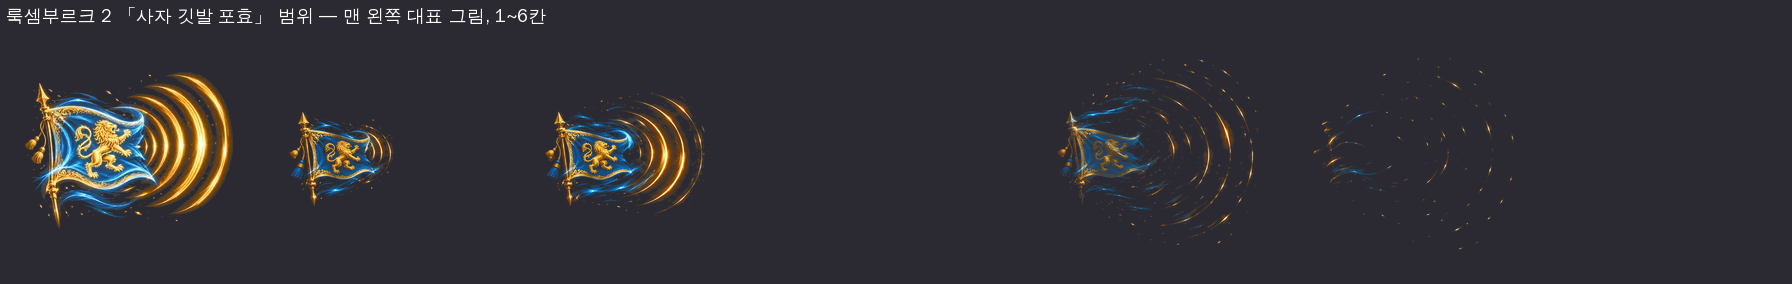
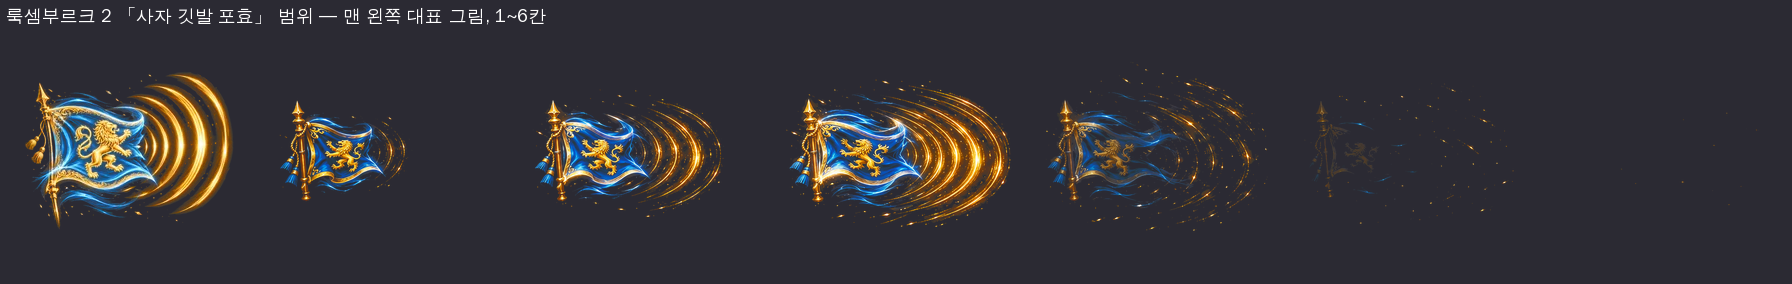
[디자인팀] 21차 연속 그림 60개 점검 미리보기
Claude-Session: https://claude.ai/code/session_013M9CK1DXpnv28ZtJdsmhuH

diff --git a/teams/2-디자인/preview/r21-check.html b/teams/2-디자인/preview/r21-check.html
@@ -7,7 +7,7 @@ h2{font-size:15px;margin:18px 0 6px}</style></head><body>
 <h2>천자총통 발사 (화포 자리, 0.05초/칸)</h2><div class="g" id="fire"></div>
 <div id="all"></div>
 <script>
-const D=[{"k": "switzerland-1", "t": "스위스 1 · 알프스 미늘창 덫", "ty": "설치", "n": ""}, {"k": "usa-2", "t": "미국 2 · 자유의 종 파동", "ty": "설치", "n": ""}, {"k": "australia-2", "t": "호주 2 · 부메랑 회오리", "ty": "설치", "n": ""}, {"k": "sweden-2", "t": "스웨덴 2 · 룬스톤 원진", "ty": "설치", "n": ""}, {"k": "canada-2", "t": "캐나다 2 · 단풍 소용돌이", "ty": "설치", "n": ""}, {"k": "finland-2", "t": "핀란드 2 · 칸텔레 노래 함정", "ty": "설치", "n": ""}, {"k": "italy-1", "t": "이탈리아 1 · 군단 진영", "ty": "설치", "n": ""}, {"k": "czechia-1", "t": "체코 1 · 전차 요새", "ty": "설치", "n": ""}, {"k": "newzealand-1", "t": "뉴질랜드 1 · 은빛 고사리 결계", "ty": "설치", "n": ""}, {"k": "chile-2", "t": "칠레 2 · 산바람 소용돌이", "ty": "설치", "n": "검은 바람이라 가산 합성에선 은빛만 보여요(보통 합성으로 바꾸면 검정이 살아남지만 지금 그림은 밝기 알파라 은빛 바람으로 씀)"}, {"k": "luxembourg-2", "t": "룩셈부르크 2 · 사자 깃발 포효", "ty": "범위", "n": "⚠ 3칸이 비고 4~6칸이 흩어져 다시 그리는 중"}, {"k": "ireland-1", "t": "아일랜드 1 · 광전사 회오리", "ty": "범위", "n": ""}, {"k": "denmark-2", "t": "덴마크 2 · 크론보르 수호 회전", "ty": "범위", "n": ""}, {"k": "austria-2", "t": "오스트리아 2 · 빈 성벽 이중 베기", "ty": "범위", "n": ""}, {"k": "germany-1", "t": "독일 1 · 강철 손 회전베기", "ty": "범위", "n": ""}, {"k": "france-1", "t": "프랑스 1 · 백합 깃발 휩쓸기", "ty": "범위", "n": ""}, {"k": "korea-2", "t": "한국 2 · 천자총통 포격", "ty": "범위", "n": ""}, {"k": "spain-2", "t": "스페인 2 · 콜라다 회전베기", "ty": "범위", "n": ""}, {"k": "czechia-2", "t": "체코 2 · 후스 도리깨", "ty": "범위", "n": ""}, {"k": "japan-2", "t": "일본 2 · 이도류 삼연 베기", "ty": "범위", "n": ""}, {"k": "portugal-1", "t": "포르투갈 1 · 항해의 바람", "ty": "범위", "n": ""}, {"k": "poland-2", "t": "폴란드 2 · 검은 기사 장창 휩쓸기", "ty": "범위", "n": ""}, {"k": "slovakia-1", "t": "슬로바키아 1 · 타트라 도끼 내려찍기", "ty": "범위", "n": ""}, {"k": "greece-1", "t": "그리스 1 · 스파르타 팔랑크스", "ty": "범위", "n": ""}, {"k": "turkiye-1", "t": "튀르키예 1 · 코푸즈 칼날 고리", "ty": "범위", "n": ""}, {"k": "chile-1", "t": "칠레 1 · 산바람", "ty": "범위", "n": ""}, {"k": "mexico-2", "t": "멕시코 2 · 마쿠아우이틀 날개 베기", "ty": "범위", "n": ""}, {"k": "colombia-1", "t": "콜롬비아 1 · 엘도라도 황금 함성", "ty": "범위", "n": ""}, {"k": "luxembourg-1", "t": "룩셈부르크 1 · 눈먼 기사왕의 돌격", "ty": "돌진", "n": ""}, {"k": "ireland-2", "t": "아일랜드 2 · 게 볼그 돌격", "ty": "돌진", "n": ""}, {"k": "netherlands-2", "t": "네덜란드 2 · 바닷바람 순간 돌파", "ty": "돌진", "n": ""}, {"k": "denmark-1", "t": "덴마크 1 · 잠든 거인의 표식 돌격", "ty": "돌진", "n": ""}, {"k": "austria-1", "t": "오스트리아 1 · 용기병 돌격", "ty": "돌진", "n": ""}, {"k": "germany-2", "t": "독일 2 · 강철 손 내려찍기", "ty": "돌진", "n": ""}, {"k": "sweden-1", "t": "스웨덴 1 · 캐롤린 돌격 대형", "ty": "돌진", "n": ""}, {"k": "finland-1", "t": "핀란드 1 · 히이시 엘크 스키 질주", "ty": "돌진", "n": ""}, {"k": "france-2", "t": "프랑스 2 · 오를레앙 돌파", "ty": "돌진", "n": ""}, {"k": "spain-1", "t": "스페인 1 · 티소나 일섬", "ty": "돌진", "n": ""}, {"k": "israel-2", "t": "이스라엘 2 · 검 돌격", "ty": "돌진", "n": ""}, {"k": "lithuania-1", "t": "리투아니아 1 · 게디미나스 기둥 창돌격", "ty": "돌진", "n": ""}, {"k": "newzealand-2", "t": "뉴질랜드 2 · 고사리 씨앗 질주", "ty": "돌진", "n": ""}, {"k": "japan-1", "t": "일본 1 · 노 목검 일격", "ty": "돌진", "n": ""}, {"k": "poland-1", "t": "폴란드 1 · 날개 기병 돌격", "ty": "돌진", "n": ""}, {"k": "hungary-2", "t": "헝가리 2 · 맷돌 장사 돌진", "ty": "돌진", "n": ""}, {"k": "greece-2", "t": "그리스 2 · 아킬레우스 창 돌격", "ty": "돌진", "n": ""}, {"k": "turkiye-2", "t": "튀르키예 2 · 서사시 영웅 돌파", "ty": "돌진", "n": ""}, {"k": "mexico-1", "t": "멕시코 1 · 독수리 전사 일격", "ty": "돌진", "n": ""}, {"k": "colombia-2", "t": "콜롬비아 2 · 황금 그림자 돌격", "ty": "돌진", "n": ""}, {"k": "switzerland-2", "t": "스위스 2 · 사과 과녁 석궁", "ty": "연사", "n": ""}, {"k": "usa-1", "t": "미국 1 · 랜턴 신호탄 튕김", "ty": "연사", "n": ""}, {"k": "netherlands-1", "t": "네덜란드 1 · 함포 일제 사격", "ty": "연사", "n": ""}, {"k": "australia-1", "t": "호주 1 · 부메랑 투척", "ty": "연사", "n": ""}, {"k": "canada-1", "t": "캐나다 1 · 도끼 던지기", "ty": "연사", "n": ""}, {"k": "italy-2", "t": "이탈리아 2 · 자마 군단 전진 찌르기", "ty": "연사", "n": ""}, {"k": "israel-1", "t": "이스라엘 1 · 투석 연사", "ty": "연사", "n": ""}, {"k": "lithuania-2", "t": "리투아니아 2 · 기마 투창 3연", "ty": "연사", "n": ""}, {"k": "portugal-2", "t": "포르투갈 2 · 루시타니아 창 찌르기", "ty": "연사", "n": ""}, {"k": "hungary-1", "t": "헝가리 1 · 후사르 사브르 연격", "ty": "연사", "n": ""}, {"k": "slovakia-2", "t": "슬로바키아 2 · 발라슈카 연속 던지기", "ty": "연사", "n": ""}];const TY={'설치':'설치(장판)','범위':'범위','돌진':'돌진','연사':'연사'};
+const D=[{"k": "switzerland-1", "t": "스위스 1 · 알프스 미늘창 덫", "ty": "설치", "n": ""}, {"k": "usa-2", "t": "미국 2 · 자유의 종 파동", "ty": "설치", "n": ""}, {"k": "australia-2", "t": "호주 2 · 부메랑 회오리", "ty": "설치", "n": ""}, {"k": "sweden-2", "t": "스웨덴 2 · 룬스톤 원진", "ty": "설치", "n": ""}, {"k": "canada-2", "t": "캐나다 2 · 단풍 소용돌이", "ty": "설치", "n": ""}, {"k": "finland-2", "t": "핀란드 2 · 칸텔레 노래 함정", "ty": "설치", "n": ""}, {"k": "italy-1", "t": "이탈리아 1 · 군단 진영", "ty": "설치", "n": ""}, {"k": "czechia-1", "t": "체코 1 · 전차 요새", "ty": "설치", "n": ""}, {"k": "newzealand-1", "t": "뉴질랜드 1 · 은빛 고사리 결계", "ty": "설치", "n": ""}, {"k": "chile-2", "t": "칠레 2 · 산바람 소용돌이", "ty": "설치", "n": "검은 바람이라 가산 합성에선 은빛만 보여요(보통 합성으로 바꾸면 검정이 살아남지만 지금 그림은 밝기 알파라 은빛 바람으로 씀)"}, {"k": "luxembourg-2", "t": "룩셈부르크 2 · 사자 깃발 포효", "ty": "범위", "n": "다시 그림 완료(3칸이 가장 큰 순간)"}, {"k": "ireland-1", "t": "아일랜드 1 · 광전사 회오리", "ty": "범위", "n": ""}, {"k": "denmark-2", "t": "덴마크 2 · 크론보르 수호 회전", "ty": "범위", "n": ""}, {"k": "austria-2", "t": "오스트리아 2 · 빈 성벽 이중 베기", "ty": "범위", "n": ""}, {"k": "germany-1", "t": "독일 1 · 강철 손 회전베기", "ty": "범위", "n": ""}, {"k": "france-1", "t": "프랑스 1 · 백합 깃발 휩쓸기", "ty": "범위", "n": ""}, {"k": "korea-2", "t": "한국 2 · 천자총통 포격", "ty": "범위", "n": ""}, {"k": "spain-2", "t": "스페인 2 · 콜라다 회전베기", "ty": "범위", "n": ""}, {"k": "czechia-2", "t": "체코 2 · 후스 도리깨", "ty": "범위", "n": ""}, {"k": "japan-2", "t": "일본 2 · 이도류 삼연 베기", "ty": "범위", "n": ""}, {"k": "portugal-1", "t": "포르투갈 1 · 항해의 바람", "ty": "범위", "n": ""}, {"k": "poland-2", "t": "폴란드 2 · 검은 기사 장창 휩쓸기", "ty": "범위", "n": ""}, {"k": "slovakia-1", "t": "슬로바키아 1 · 타트라 도끼 내려찍기", "ty": "범위", "n": ""}, {"k": "greece-1", "t": "그리스 1 · 스파르타 팔랑크스", "ty": "범위", "n": ""}, {"k": "turkiye-1", "t": "튀르키예 1 · 코푸즈 칼날 고리", "ty": "범위", "n": ""}, {"k": "chile-1", "t": "칠레 1 · 산바람", "ty": "범위", "n": ""}, {"k": "mexico-2", "t": "멕시코 2 · 마쿠아우이틀 날개 베기", "ty": "범위", "n": ""}, {"k": "colombia-1", "t": "콜롬비아 1 · 엘도라도 황금 함성", "ty": "범위", "n": ""}, {"k": "luxembourg-1", "t": "룩셈부르크 1 · 눈먼 기사왕의 돌격", "ty": "돌진", "n": ""}, {"k": "ireland-2", "t": "아일랜드 2 · 게 볼그 돌격", "ty": "돌진", "n": ""}, {"k": "netherlands-2", "t": "네덜란드 2 · 바닷바람 순간 돌파", "ty": "돌진", "n": ""}, {"k": "denmark-1", "t": "덴마크 1 · 잠든 거인의 표식 돌격", "ty": "돌진", "n": ""}, {"k": "austria-1", "t": "오스트리아 1 · 용기병 돌격", "ty": "돌진", "n": ""}, {"k": "germany-2", "t": "독일 2 · 강철 손 내려찍기", "ty": "돌진", "n": ""}, {"k": "sweden-1", "t": "스웨덴 1 · 캐롤린 돌격 대형", "ty": "돌진", "n": ""}, {"k": "finland-1", "t": "핀란드 1 · 히이시 엘크 스키 질주", "ty": "돌진", "n": ""}, {"k": "france-2", "t": "프랑스 2 · 오를레앙 돌파", "ty": "돌진", "n": ""}, {"k": "spain-1", "t": "스페인 1 · 티소나 일섬", "ty": "돌진", "n": ""}, {"k": "israel-2", "t": "이스라엘 2 · 검 돌격", "ty": "돌진", "n": ""}, {"k": "lithuania-1", "t": "리투아니아 1 · 게디미나스 기둥 창돌격", "ty": "돌진", "n": ""}, {"k": "newzealand-2", "t": "뉴질랜드 2 · 고사리 씨앗 질주", "ty": "돌진", "n": ""}, {"k": "japan-1", "t": "일본 1 · 노 목검 일격", "ty": "돌진", "n": ""}, {"k": "poland-1", "t": "폴란드 1 · 날개 기병 돌격", "ty": "돌진", "n": ""}, {"k": "hungary-2", "t": "헝가리 2 · 맷돌 장사 돌진", "ty": "돌진", "n": ""}, {"k": "greece-2", "t": "그리스 2 · 아킬레우스 창 돌격", "ty": "돌진", "n": ""}, {"k": "turkiye-2", "t": "튀르키예 2 · 서사시 영웅 돌파", "ty": "돌진", "n": ""}, {"k": "mexico-1", "t": "멕시코 1 · 독수리 전사 일격", "ty": "돌진", "n": ""}, {"k": "colombia-2", "t": "콜롬비아 2 · 황금 그림자 돌격", "ty": "돌진", "n": ""}, {"k": "switzerland-2", "t": "스위스 2 · 사과 과녁 석궁", "ty": "연사", "n": ""}, {"k": "usa-1", "t": "미국 1 · 랜턴 신호탄 튕김", "ty": "연사", "n": ""}, {"k": "netherlands-1", "t": "네덜란드 1 · 함포 일제 사격", "ty": "연사", "n": ""}, {"k": "australia-1", "t": "호주 1 · 부메랑 투척", "ty": "연사", "n": ""}, {"k": "canada-1", "t": "캐나다 1 · 도끼 던지기", "ty": "연사", "n": ""}, {"k": "italy-2", "t": "이탈리아 2 · 자마 군단 전진 찌르기", "ty": "연사", "n": ""}, {"k": "israel-1", "t": "이스라엘 1 · 투석 연사", "ty": "연사", "n": ""}, {"k": "lithuania-2", "t": "리투아니아 2 · 기마 투창 3연", "ty": "연사", "n": ""}, {"k": "portugal-2", "t": "포르투갈 2 · 루시타니아 창 찌르기", "ty": "연사", "n": ""}, {"k": "hungary-1", "t": "헝가리 1 · 후사르 사브르 연격", "ty": "연사", "n": ""}, {"k": "slovakia-2", "t": "슬로바키아 2 · 발라슈카 연속 던지기", "ty": "연사", "n": ""}];const TY={'설치':'설치(장판)','범위':'범위','돌진':'돌진','연사':'연사'};
 function seqFrames(ty){if(ty==='설치')return [0,1,2,3,4,3,2,3,4,3,2,3,4,5];if(ty==='돌진')return [0,1,2,3,2,3,2,3,4,5];return [0,1,2,3,4,5]}
 function card(parent,d){const c=document.createElement('div');c.className='c'+(d.n.startsWith('⚠')?' w':'');c.innerHTML=`<div class="t">${d.t} <span class="ty">${d.ty}</span></div><div class="row"><canvas width="128" height="128"></canvas><canvas width="128" height="128"></canvas></div>${d.n?`<div class="n">${d.n}</div>`:''}`;parent.appendChild(c);
  const [a,b]=c.querySelectorAll('canvas');const u=new Image();u.src='r21/u-'+d.k+'.webp';u.onload=()=>{const x=a.getContext('2d');x.globalCompositeOperation='lighter';x.drawImage(u,0,0,128,128)};

diff --git a/teams/2-디자인/작업기록.md b/teams/2-디자인/작업기록.md
@@ -219,3 +219,4 @@
 - 사용자 '넣어': 공통 연속 그림 5종 src/assets/skill/seq/common-*.webp 반영.
 - 국가 금고(GDD 0-23) 결과 화면 적립 연출 + 강화 화면 시안 preview/vault.html, ui.md 규격 추가.
 - 사용자 '깃발 날아가는 건 원하는 게 아님' → 새 방향 준비: 스킬 효과 그림 자체가 3D처럼 날아가 도착 후 연속 그림 펼침 시안 preview/skill-fly.html(미국2·스웨덴2·프랑스1, 새 그림 없음).
+- 21차 연속 그림 59개 + 천자총통 발사 애니 완료(A kim, B 팀장 dhk, 실패 없음). 룩셈부르크2 3칸 빔 → 다시 그림. 칠레2는 가산이라 은빛 바람으로 보임(확인 요청). 미리보기 preview/r21-check.html.
